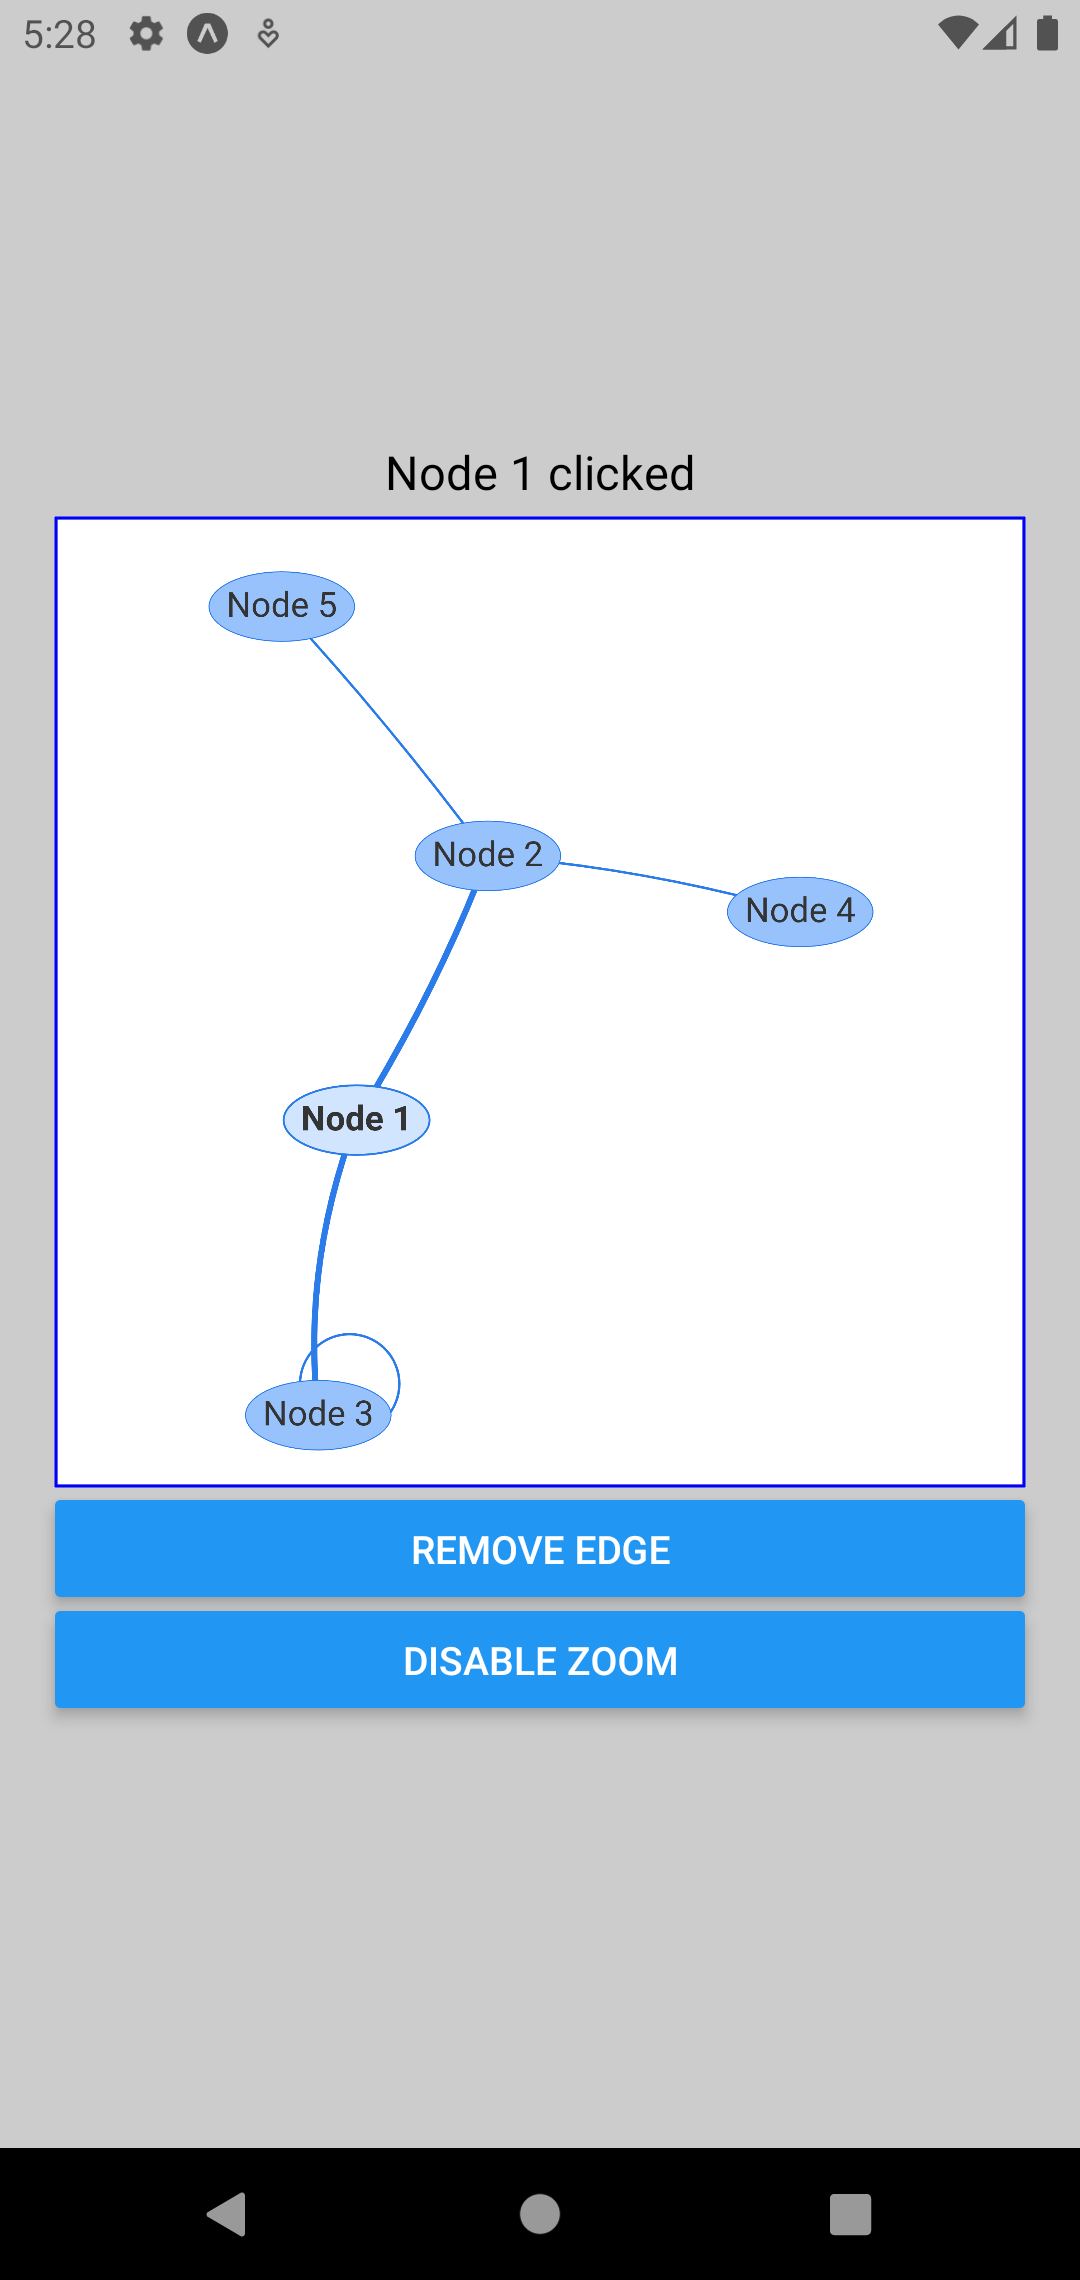
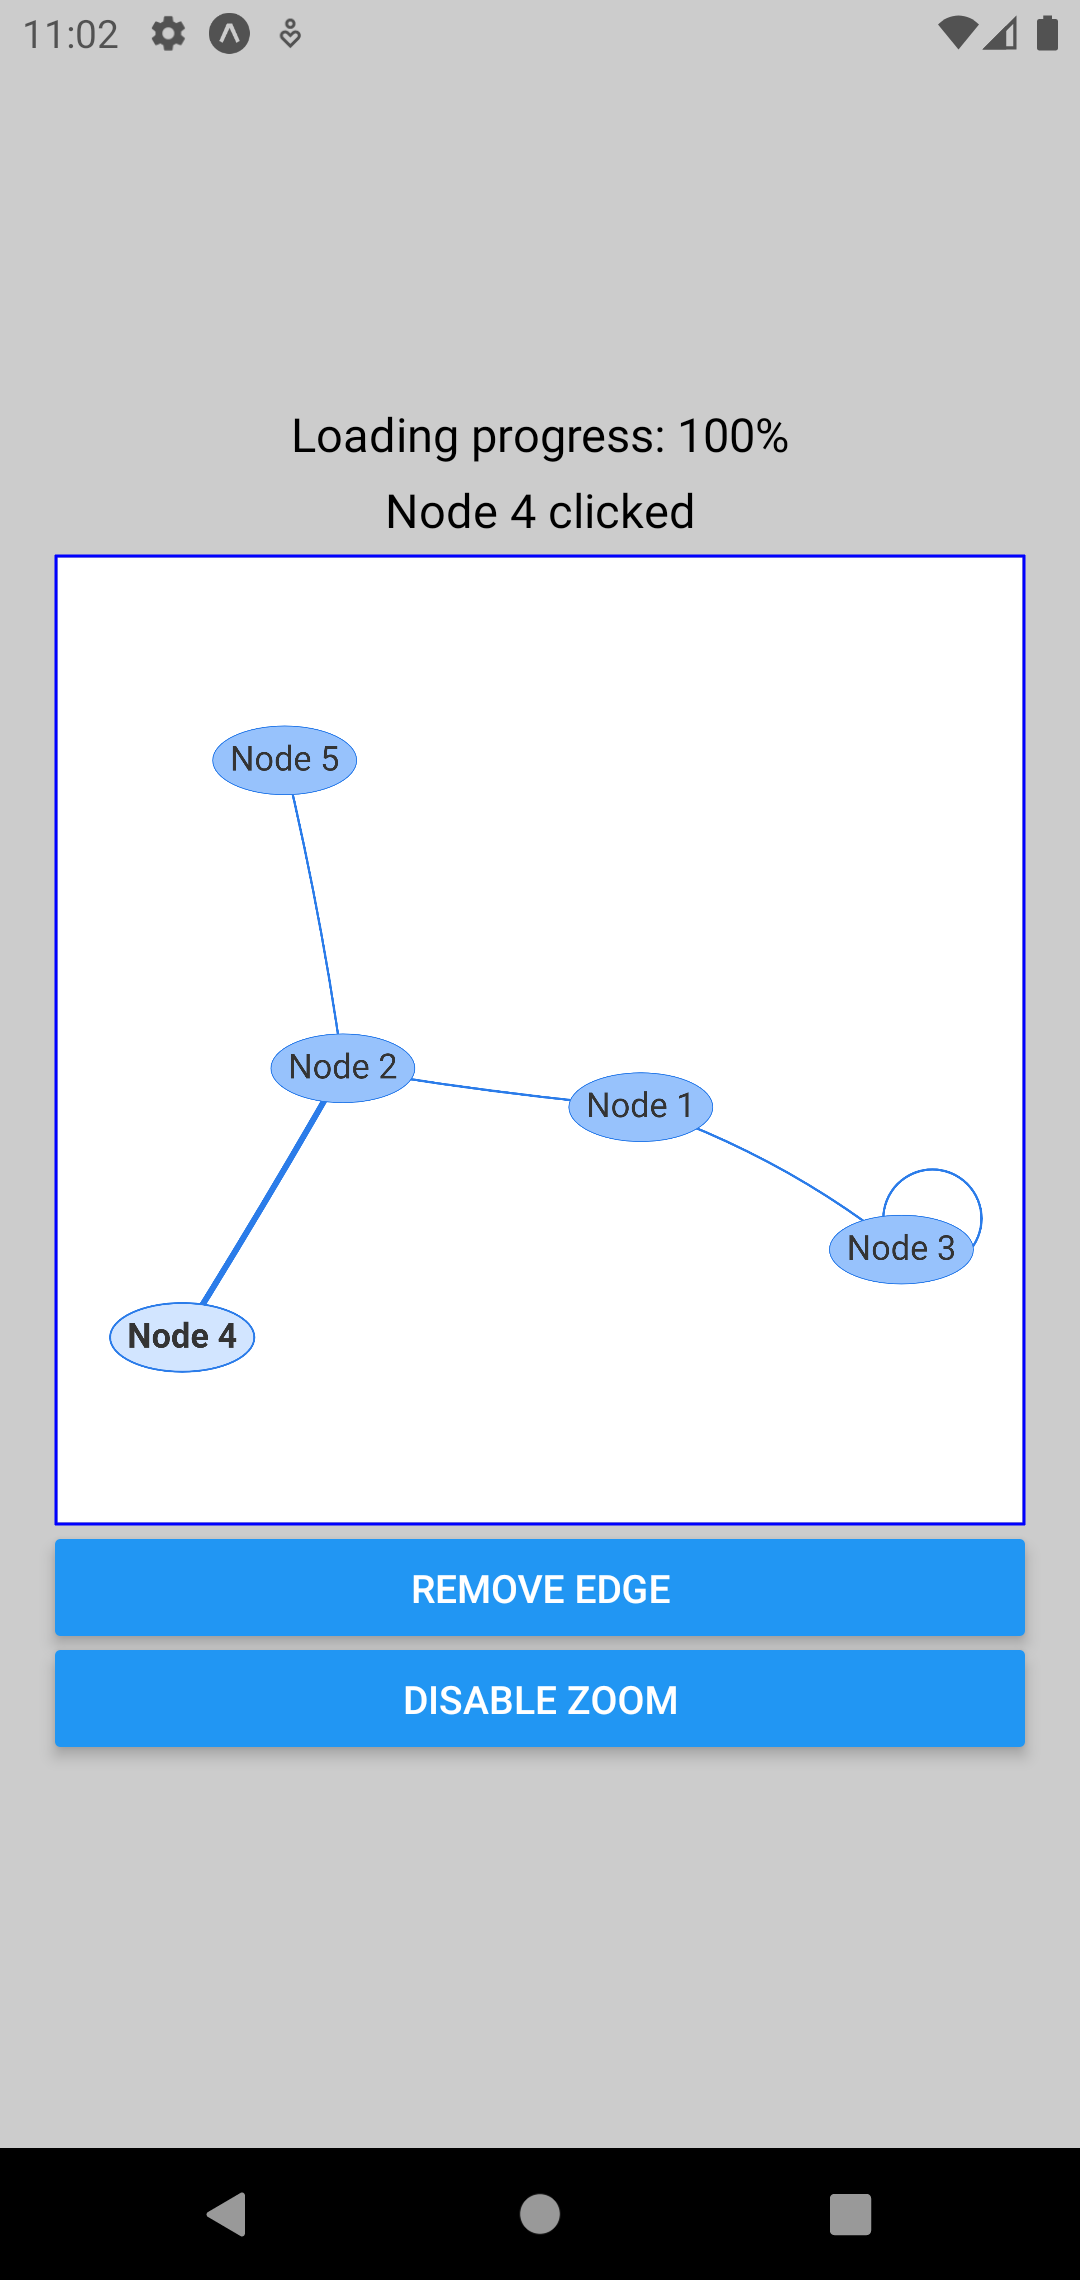
chore: add loading progress to example
- And update screenshots

diff --git a/example/src/App.tsx b/example/src/App.tsx
@@ -21,6 +21,7 @@ export default function App() {
     ],
   });
   const [loading, setLoading] = useState<boolean>(false);
+  const [progress, setProgress] = useState(0);
   const [selectedNodeId, setSelectedNodeId] = useState<string | undefined>();
   const [zoomView, setZoomView] = useState<boolean>(true);
 
@@ -31,12 +32,26 @@ export default function App() {
       return;
     }
 
-    const subscription = visNetworkRef.current.addEventListener(
+    const clickSubscription = visNetworkRef.current.addEventListener(
       'click',
       ({ nodes }: any) => setSelectedNodeId(nodes[0])
     );
 
-    return subscription.remove;
+    const progressSubscription = visNetworkRef.current.addEventListener(
+      'stabilizationProgress',
+      ({ iterations, total }: any) => setProgress(iterations / total)
+    );
+
+    const doneSubscription = visNetworkRef.current.addEventListener(
+      'stabilizationIterationsDone',
+      () => setProgress(1)
+    );
+
+    return () => {
+      clickSubscription.remove();
+      progressSubscription.remove();
+      doneSubscription.remove();
+    };
 
     // Note the dependency on loading below. If you try to add an event listener
     // on mount (i.e. dependency of []), the listener won't be registered
@@ -47,6 +62,9 @@ export default function App() {
 
   return (
     <View style={styles.background}>
+      <Text style={styles.text}>
+        {`Loading progress: ${Math.round(100 * progress)}%`}
+      </Text>
       <Text style={styles.text}>
         {selectedNodeId ? `Node ${selectedNodeId} clicked` : 'No node clicked'}
       </Text>
